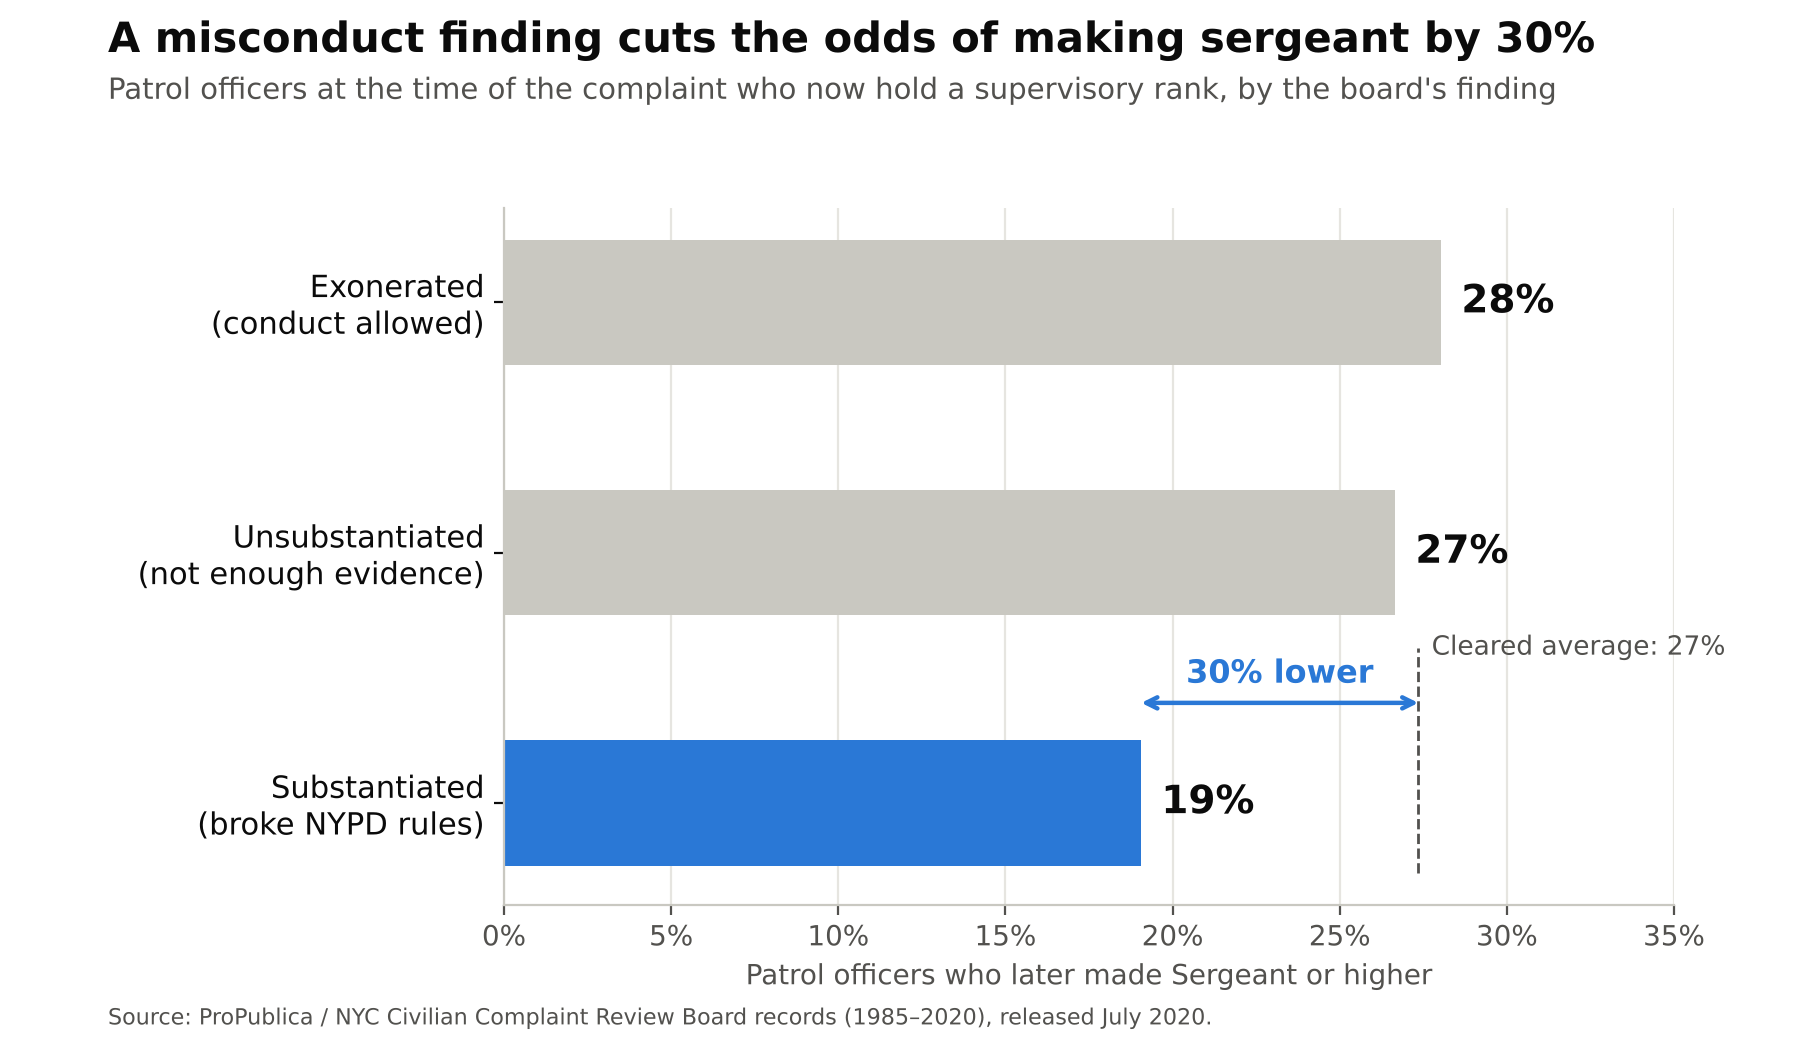
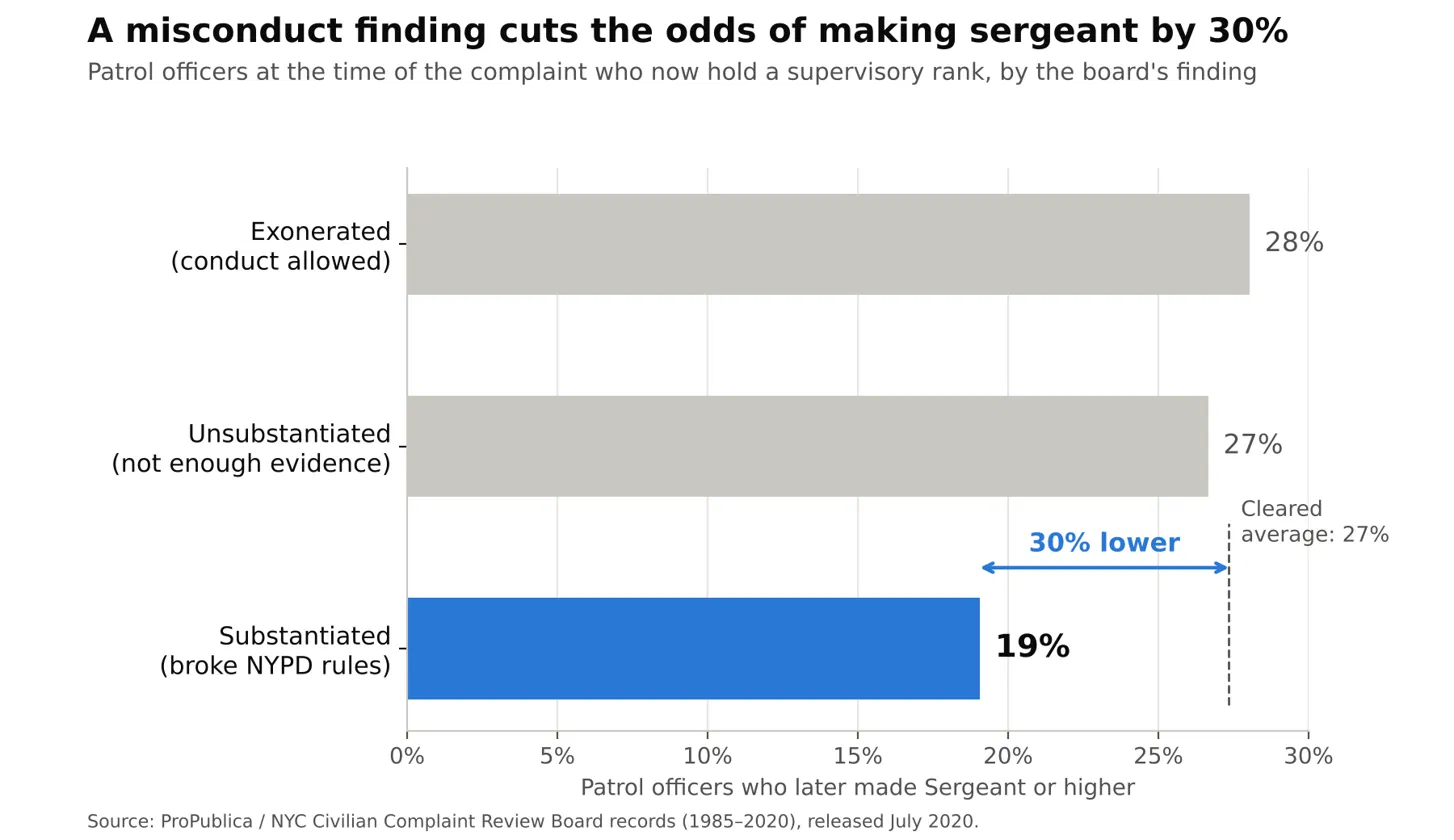
Update both graphs to the latest versions

diff --git a/index.html b/index.html
@@ -176,7 +176,7 @@
                 <p>Design Decisions and Rationale:</p>
 
                 <ul>
-                    <li><strong>Y-axis truncated at 40% (Score -2.0):</strong> The y-axis is started at 40% instead of 0%, which makes the trend look like a big jump where the bar for 5+ looks 4.5x as big as the bar for 1, when in reality it is only 1.5x as big. This is deceptive and artificially inflates the trend to make it more convincing. The top is also truncated at 80% to make each bar look taller than they otherwise should.</li>
+                    <li><strong>Y-axis truncated at 40% (Score -2.0):</strong> The y-axis is started at 40% instead of 0%, which makes the trend look like a big jump where the bar for 5+ looks 4.5x as big as the bar for 1, when in reality it is only 1.5x as big. This is deceptive and artificially inflates the trend to make it more convincing. The top is also truncated at 75% to make each bar look taller than they otherwise should.</li>
                     <li><strong>Title implies causality (Score -1.0):</strong> The title turns a factual observation into a causal claim that cannot be established from the data. Police who get more complaints have likely served for longer, and are thus more likely to be promoted. The observation might be due to a confound.</li>
                     <li><strong>The trend is real even when service time is controlled (Score +2.0):</strong> When officers are grouped by their service time, the trend weakens but remains significant, so the graph isn&rsquo;t cherry picking to force a trend to appear. Service time only explains part of the observation, not all.</li>
                     <li><strong>Red bar where brightness scales with data (Score +1.0):</strong> The bar is colored red and is darker the higher the promotion percentage. This red color implies the result is undesired while the brightness scale highlights the change to improve persuasion.</li>
